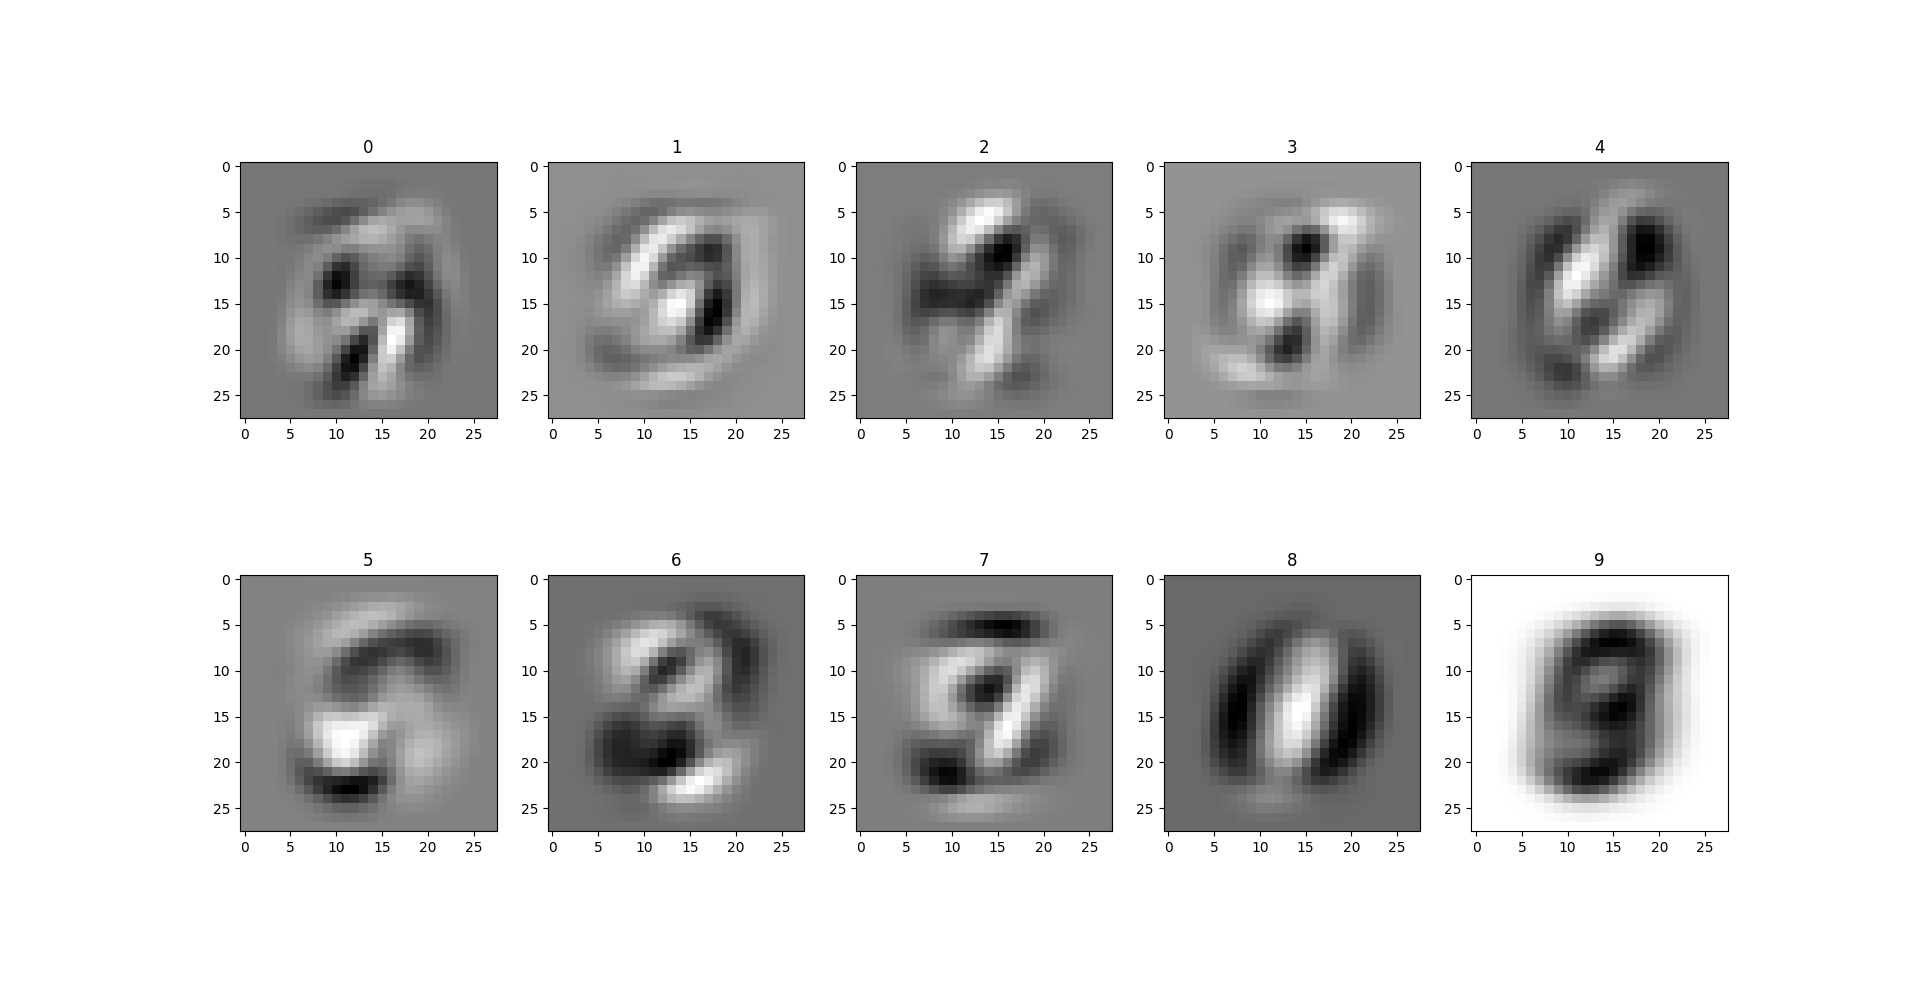
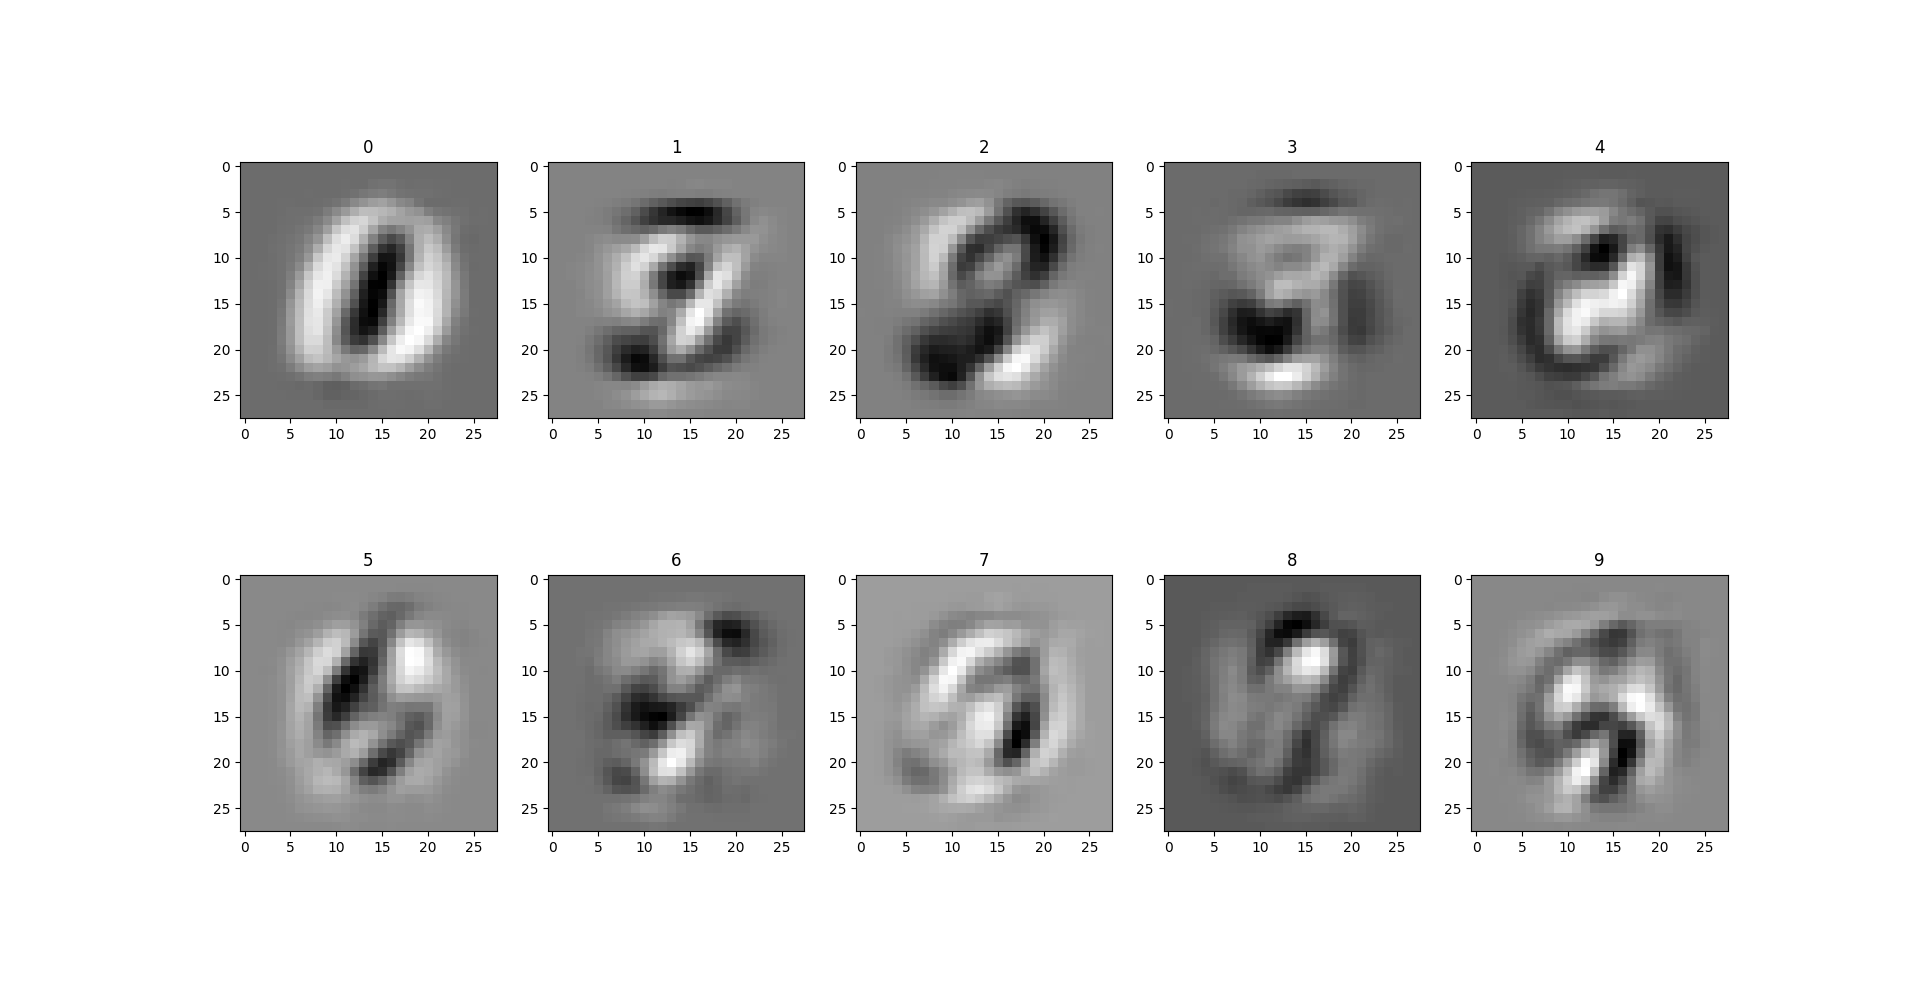
updated analysis and figures

diff --git a/hw5/analysis.py b/hw5/analysis.py
@@ -1,7 +1,7 @@
 from pylab import *
 from scipy.cluster.hierarchy import dendrogram, linkage, fcluster
 from sklearn.metrics import silhouette_score, mutual_info_score
-from kmeans import KMeans, wc_ssd, sc
+from kmeans import KMeans, wc_ssd, sc, nmi
 from pca import PCA
 
 def get_normalized_labels(y):
@@ -12,13 +12,46 @@ def get_normalized_labels(y):
 		y[y == l] = i
 	return y
 
-def A1():
+def generate_pca_embedding_files():
 	'''
-		Visualizing one digit.
+		Generate PCA embedding csv files for the experiments.
 	'''
 	raw = genfromtxt('digits-raw.csv', delimiter=',')
-	image = raw[randint(raw.shape[0])][2:].reshape(28, 28)
-	imshow(image, cmap='gray')
+	X = raw[:, 2:]
+	pca = PCA(10)
+	X_new = pca.fit_transform(X)
+	raw_new = hstack((raw[:,:2], X_new))
+	savetxt('digits-pca-embedding.csv', raw_new, delimiter=',')
+
+def generate_subset_files():
+	'''
+		Generate embedding subsets: 2467 and 67.
+	'''
+	# tSNE embedding
+	raw = genfromtxt('digits-embedding.csv', delimiter=',')
+	y = raw[:, 1]
+	raw_new = raw[logical_or(y == 2, logical_or(y == 4, logical_or(y == 6, y == 7)))]
+	savetxt('digits-embedding-2467.csv', raw_new, delimiter=',')
+	raw_new = raw[logical_or(y == 6, y == 7)]
+	savetxt('digits-embedding-67.csv', raw_new, delimiter=',')
+	# PCA embedding
+	raw = genfromtxt('digits-pca-embedding.csv', delimiter=',')
+	y = raw[:, 1]
+	raw_new = raw[logical_or(y == 2, logical_or(y == 4, logical_or(y == 6, y == 7)))]
+	savetxt('digits-pca-embedding-2467.csv', raw_new, delimiter=',')
+	raw_new = raw[logical_or(y == 6, y == 7)]
+	savetxt('digits-pca-embedding-67.csv', raw_new, delimiter=',')
+
+def A1():
+	'''
+		Visualizing one digit from each class.
+	'''
+	raw = genfromtxt('digits-raw-small.csv', delimiter=',')
+	for i in range(10):
+		ind = raw[:, 1] == i
+		r = randint(sum(ind))
+		subplot(2, 5, i + 1)
+		imshow(raw[ind][r, 2:].reshape(28, 28), cmap='gray')
 	show()
 
 def A2():
@@ -32,12 +65,15 @@ def A2():
 	scatter(emb[perm, 2], emb[perm, 3], c=colors, alpha=0.9, s=30)
 	show()
 
-def B1():
+def B1(pca=False):
 	'''
 		Plot WC_SSD and SC over K.
 	'''
 	K = [2, 4, 6, 8, 16, 32]
-	fnames = ['digits-embedding.csv', 'digits-embedding-2467.csv', 'digits-embedding-67.csv']
+	if pca:
+		fnames = ['digits-pca-embedding.csv', 'digits-pca-embedding-2467.csv', 'digits-pca-embedding-67.csv']
+	else:
+		fnames = ['digits-embedding.csv', 'digits-embedding-2467.csv', 'digits-embedding-67.csv']
 	wc_ssd_val = zeros((len(fnames), len(K)))
 	sc_val= zeros((len(fnames), len(K)))
 	for i, fname in enumerate(fnames):  
@@ -74,25 +110,27 @@ def B3():
 				kmeans = KMeans(n_clusters=k)
 				kmeans.fit(X)
 				wc_ssd_val[i, j, m], sc_val[i, j, m], _ = kmeans.get_evals()
+	save('B3_wc_ssd_val.npy', wc_ssd_val), save('B3_sc_val.npy', sc_val)
+	wc_ssd_val = load('B3_wc_ssd_val.npy')
+	sc_val = load('B3_sc_val.npy')
 	ssd_means = mean(wc_ssd_val, axis=2)
 	sc_means = mean(sc_val, axis=2)
 	ssd_std = std(wc_ssd_val, axis=2)
 	sc_std = std(sc_val, axis=2)
-	save('B3_wc_ssd_val.npy', wc_ssd_val), save('B3_sc.npy', sc)
 	# Plot WC_SSD
 	figure()
 	for i, fname in enumerate(fnames):
-		errorbar(K, ssd_means[i], ssd_std[i], label=fname)
+		errorbar(K, ssd_means[i], ssd_std[i], capsize=4, label=fname)
 	legend()
 	title('WC_SSD v.s. K')
 	figure()
 	for i, fname in enumerate(fnames):
-		errorbar(K, sc_means[i], sc_std[i], label=fname)
+		errorbar(K, sc_means[i], sc_std[i], capsize=4, label=fname)
 	legend()
 	title('SC v.s. K')
 	show()
 
-def B4():
+def B4(pca=False):
 	'''
 		Evaluate using NMI and visualize in 2D.
 	'''
@@ -111,6 +149,7 @@ def B4():
 		ind = ind[perm]
 		colors = rand(k, 3)[ind, :]
 		scatter(X[:, 0], X[:, 1], c=colors, alpha=0.9, s=30)
+	print fnames
 	print "NMI =", nmi
 	show()
 
@@ -166,8 +205,8 @@ def C3():
 	# Randomly select 10 images from each digit
 	X = zeros((100, 2))
 	y = zeros(100)
-	wc_ssd_val = zeros((len(methods), len(K)))
-	sc_val= zeros((len(methods), len(K)))
+	wc_ssd_val = zeros((len(methods), len(K), 10))
+	sc_val= zeros((len(methods), len(K), 10))
 	for i in range(10):
 		ind = raw[:, 1] == i
 		perm = permutation(sum(ind))[:10]
@@ -176,31 +215,67 @@ def C3():
 	for i, m in enumerate(methods):
 		Z = linkage(X, method=m)
 		for j, k in enumerate(K):
-			ind = fcluster(Z, k, criterion='maxclust')
-			ind = get_normalized_labels(ind)
-			# Find the cluster centers
-			C = array([mean(X[ind == n], axis=0) for n in range(k)])
-			wc_ssd_val[i, j] = wc_ssd(X, C, ind)
-			sc_val[i, j] = sc(X, C, ind)
+			for l in range(10):
+				ind = fcluster(Z, k, criterion='maxclust')
+				ind = get_normalized_labels(ind)
+				# Find the cluster centers
+				C = array([mean(X[ind == n], axis=0) for n in range(k)])
+				wc_ssd_val[i, j, l] = wc_ssd(X, C, ind)
+				sc_val[i, j, l] = sc(X, C, ind)
+	ssd_means = mean(wc_ssd_val, axis=2)
+	sc_means = mean(sc_val, axis=2)
+	ssd_std = std(wc_ssd_val, axis=2)
+	sc_std = std(sc_val, axis=2)
 	figure()
 	for i, m in enumerate(methods):
-		plot(K, wc_ssd_val[i], label=m)
+		errorbar(K, ssd_means[i], ssd_std[i], capsize=4, label=m)
 	title('WC_SSD v.s. K')
 	xlabel('K')
 	ylabel('WC_SSD')
+	legend()
 	figure()
 	for i, m in enumerate(methods):
-		plot(K, sc_val[i], label=m)
+		errorbar(K, sc_means[i], sc_std[i], capsize=4, label=m)
 	title('SC v.s. K')
 	xlabel('K')
 	ylabel('SC')
+	legend()
+	show()
+
+def C5():
+	'''
+		NMI across distance measures.
+	'''
+
+	k = 8
+	methods = ['single', 'complete', 'average']
+	raw = genfromtxt('digits-embedding.csv', delimiter=',')
+	# Randomly select 10 images from each digit
+	X = zeros((100, 2))
+	y = zeros(100)
+	nmi_val = zeros((len(methods), 10))
+	for i in range(10):
+		ind = raw[:, 1] == i
+		perm = permutation(sum(ind))[:10]
+		X[10 * i: 10 * i + 10] = raw[ind, 2:][perm]
+		y[10 * i: 10 * i + 10] = raw[ind, 1][perm]
+	for i, m in enumerate(methods):
+		for j in range(10):
+			Z = linkage(X, method=m)
+			ind = fcluster(Z, k, criterion='maxclust')
+			ind = get_normalized_labels(ind)
+			nmi_val[i, j] = nmi(y, ind)
+	print "Average NMI across 10 trials:"
+	print methods
+	print mean(nmi_val, axis=1)
 	show()
 
 def Bonus2():
 	'''
 		Visualization of the first 10 eigen vectors.
 	'''
-	raw = genfromtxt('digits-raw.csv', delimiter=',')
+	# raw = genfromtxt('digits-raw.csv', delimiter=',')
+	raw = genfromtxt('digits-raw-small.csv', delimiter=',')
 	X = raw[:, 2:]
 	pca = PCA(10)
 	eigvec = pca.fit(X)
@@ -227,3 +302,9 @@ def Bonus3():
 	colors = rand(10, 3)[labels, :]
 	scatter(X_new[perm, 0], X_new[perm, 1], c=colors, alpha=0.9, s=10)
 	show()
+
+def Bonus4():
+	'''
+		Repeat B1, B2, B4 with PCA embedding.
+	'''
+	B1(pca=True)

diff --git a/hw5/pca.py b/hw5/pca.py
@@ -1,46 +1,62 @@
 from pylab import *
 from scipy.sparse.linalg import svds
+from sklearn.decomposition import PCA as skPCA
 
 class PCA(object):
 	'''
 		PCA modified from ECE661.
 	'''
-	def __init__(self, K):
+	def __init__(self, n_components):
 		super(PCA, self).__init__()
-		self.K = K
+		self.K = n_components
 		self.WK = None
 
 	def fit(self, X):
 		'''
-			Fit the model. X is num_samples x num_features.
+			Fit the model. 
+			X is n_samples x n_features.
 		'''
+		n_samples, n_features = X.shape
 		# Follow the notation of Avi's tutorial
-		X = X.T
-		m = mean(X, axis=1)
-		_, _, Ut = svds(dot(X.T, X), k=self.K)
-		W = dot(X, Ut.T)
+		# Center the data
+		X = X - mean(X, axis=0)
+		# X /= std(X, axis=0)
+		# Covariance matrix
+		C = dot(X.T, X) / (n_samples - 1.)
+		_, _, Ut = svd(C)
 		# Preserve the first K eigenvectors
-		# Each column is an eigenvector
-		self.WK = W[:,:self.K]
-		# Return the eigenvectors
-		return self.WK.T
+		# Each row is an eigenvector
+		self.WK = Ut[:self.K]
+		return self.WK
 
 	def transform(self, X):
 		'''
-			Transform the data. X is num_samples x num_features.
+			Transform the data. 
+			X is n_samples x n_features.
 		'''
-		X = X.T
-		m = mean(X, axis=1)
-		# Y is num_features x num_samples
-		Y = dot(self.WK.T, X - m.reshape(-1,1))
-		return Y.T
+		X = X - mean(X, axis=0)
+		# Y is n_features x n_samples
+		return dot(X, self.WK.T)
 
 	def fit_transform(self, X):
 		'''
 			Project samples onto the subspace spanned by the
 			first K eigenvectors of the covariance matrix.
 			Each sample is a row vector (same with sklearn).
-			Return num_samples x K.
+			Return n_samples x K.
 		'''
 		self.fit(X)
 		return self.transform(X)
+
+def main():
+	set_printoptions(precision=3, suppress=True)
+	X = randn(5, 3)
+	pca = PCA(n_components=2)
+	print pca.fit_transform(X)
+	print pca.fit(X)
+	skpca = skPCA(n_components=2)
+	print skpca.fit_transform(X)
+	print skpca.components_
+
+if __name__ == '__main__':
+	main()
